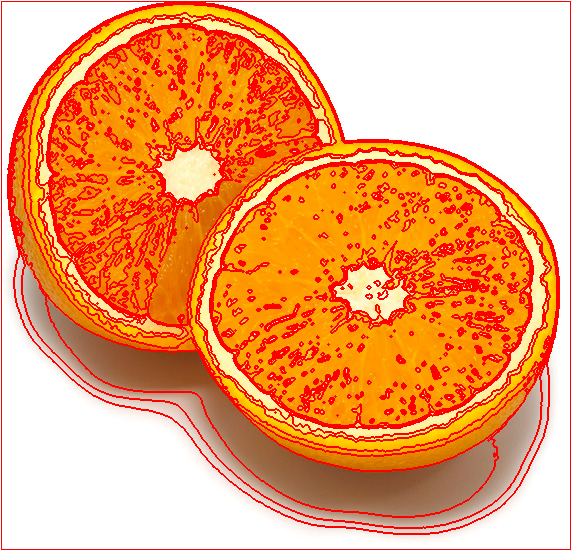
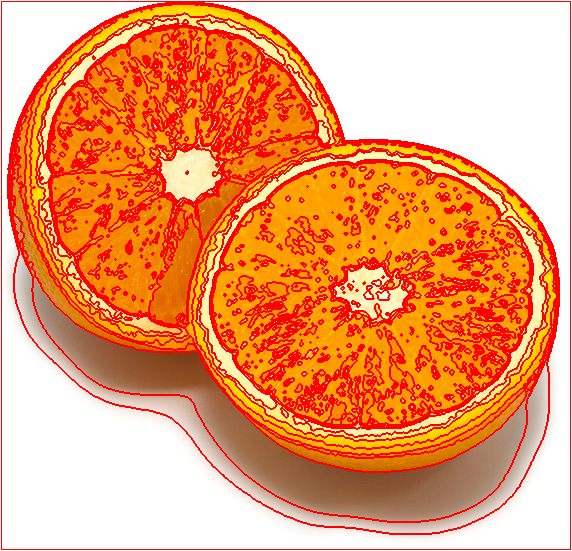
K-means

diff --git a/Lab3/Copy_of_kmeans_segm.m b/Lab3/Copy_of_kmeans_segm.m
@@ -8,9 +8,8 @@ image = im2double(image);
 % %Let X be a set of pixels and V be a set of K cluster centers in 3D (R,G,B).
 [m, n, d] = size(image);
 X = reshape(image, m * n, d);
-
-ind = randperm(m * n);
-V = X(ind(1:K),:); % Randomly initialize the K cluster centers
+rng(seed);
+V = rand(K, 3); % Randomly initialize the K cluster centers
 D = pdist2(X, V,'euclidean');% Compute all distances between pixels and cluster centers
 
 for l = 1 : L % Iterate L times
@@ -19,7 +18,11 @@ for l = 1 : L % Iterate L times
     V_temp = V;
 % %   Recompute each cluster center by taking the mean of all pixels assigned to it
     for k = 1 : K %calculate each center
-        V(k, :) = mean( X(cluster == k, :) );
+        if size(X(cluster == k, :), 1 ) <=100 %!!!How to solve!! It happen that some centers don't have any data approching.
+            V(k, :) = rand(1, 3);
+        else
+            V(k, :) = mean( X(cluster == k, :) );
+        end
     end
     if verbose == 1
         plot(l, norm(V_temp - V), 'bo');

diff --git a/Lab3/bildat_lab3/kmeans_example.m b/Lab3/bildat_lab3/kmeans_example.m
@@ -1,5 +1,5 @@
 K = 8;               % number of clusters used
-L = 100;              % number of iterations
+L = 30;              % number of iterations
 seed = 14;           % seed used for random initialization
 scale_factor = 1.0;  % image downscale factor
 image_sigma = 1.0;   % image preblurring scale
